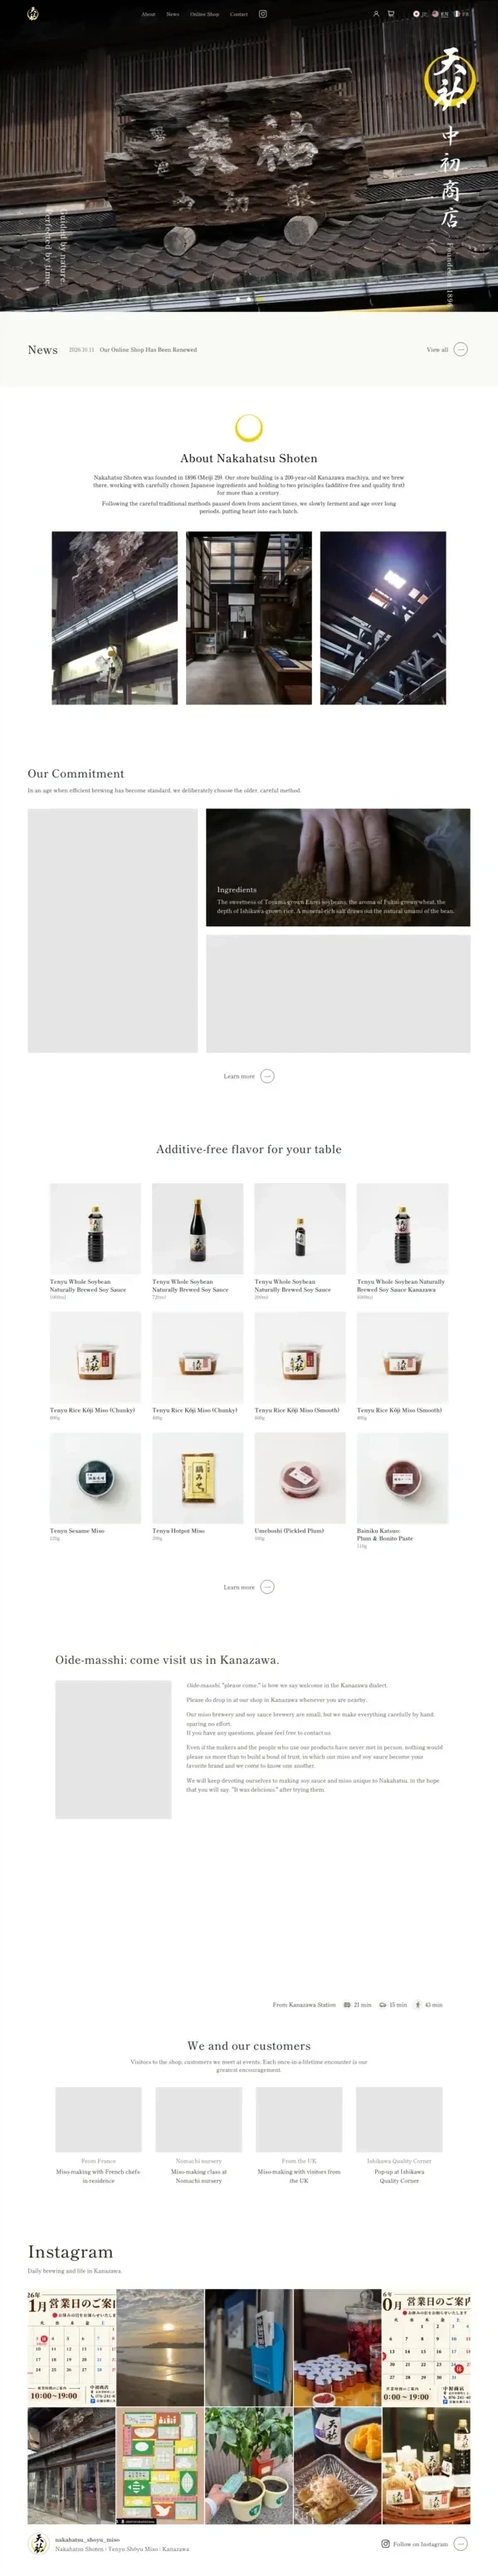
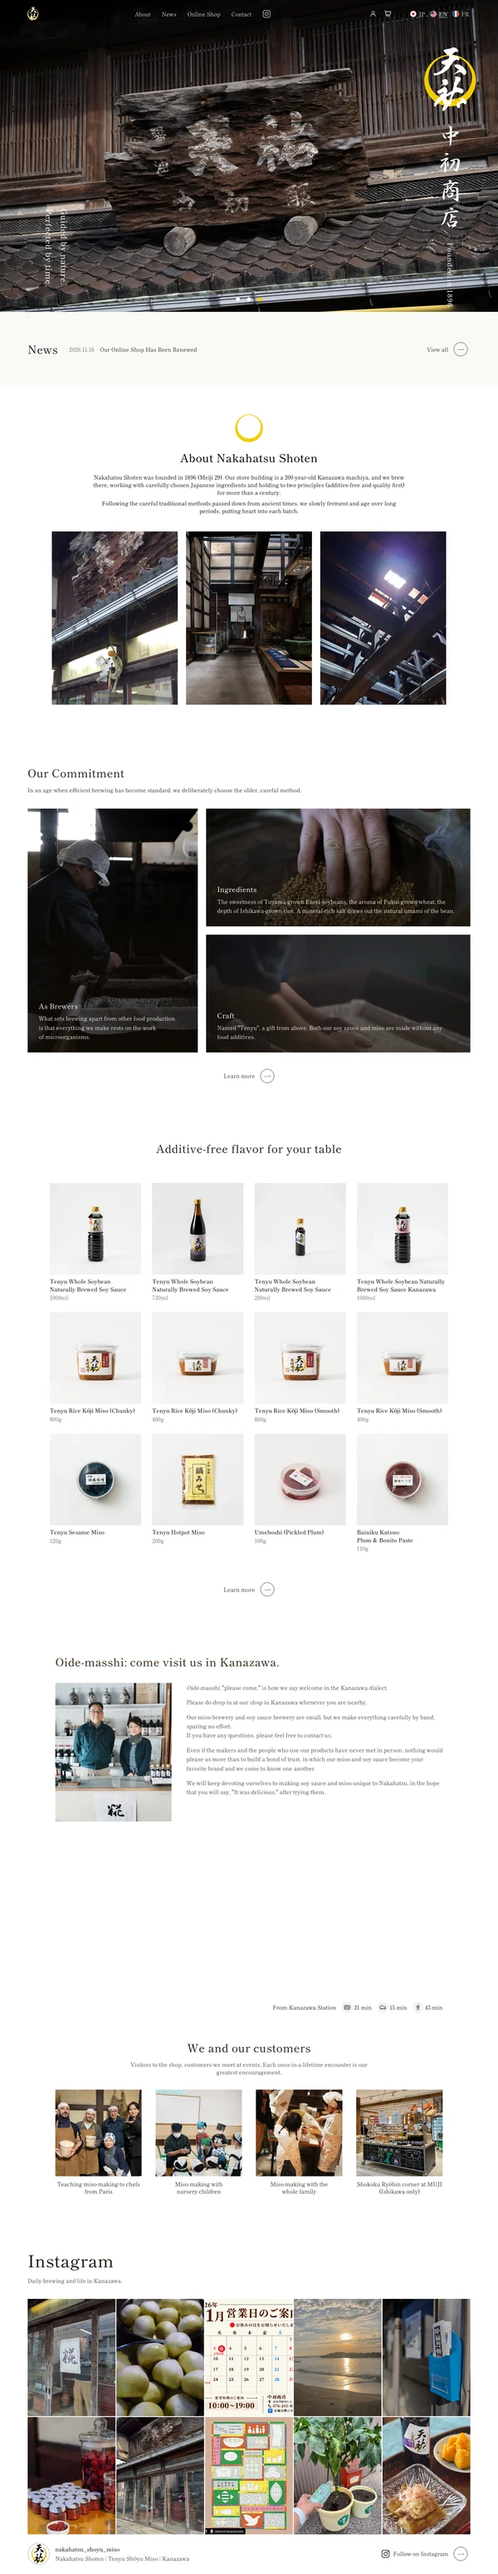
feat(nakahatsu): retake v2 full-page figure from the live store (no gray boxes), update note
Claude-Session: https://claude.ai/code/session_01S4gw1gvEb38CATZttPQqNf

diff --git a/app/[locale]/work/nakahatsu/NakahatsuSy.tsx b/app/[locale]/work/nakahatsu/NakahatsuSy.tsx
@@ -488,7 +488,7 @@ const NakahatsuSy: React.FC<{ launched: boolean }> = () => {
                 </div>
               )}
               {/* v1/v2 の 1500px の図（v1-v2-*.webp）と縦長の図（v1-v2-tall-*.webp）は、Figma の v2 で非表示にしたため載せない（JP・EN とも 2026-11-01。画像ファイルは残してある） */}
-              {/* さらに長い版: Instagram の節まで。人物が写る写真と見本（Sample）の画像は、灰色の四角に置き換えてある。Figma の長尺図の下と同じ */}
+              {/* さらに長い版: Instagram の節まで。v2（右）は公開中のストアから撮り直した（2026-11-23）。v1（左）の Instagram の一部だけ、灰色の四角に置き換えてある */}
               {s.fig === 'before-after' && (
                 <div className="flex justify-center">
                   <div className="w-full overflow-hidden rounded-media bg-[var(--nk-surface)] p-3 md:p-8">
@@ -497,7 +497,7 @@ const NakahatsuSy: React.FC<{ launched: boolean }> = () => {
                       zoom={{ openLabel: t('zoomOpen'), closeLabel: t('zoomClose') }}
                       label={t('v1v2FullAlt')}
                       before={{ src: `/work/nakahatsu/v1-v2-full-${language === 'jp' ? 'jp' : 'en'}-l.webp`, width: 600, height: 2538, label: t('v1Label') }}
-                      after={{ src: `/work/nakahatsu/v1-v2-full-${language === 'jp' ? 'jp' : 'en'}-r.webp`, width: 600, height: language === 'jp' ? 3040 : 3098, label: t('v2Label') }}
+                      after={{ src: `/work/nakahatsu/v1-v2-full-${language === 'jp' ? 'jp' : 'en'}-r.webp`, width: 600, height: language === 'jp' ? 3045 : 3096, label: t('v2Label') }}
                     />
                     <p className="pt-4 text-body-sm text-ink-tertiary">{t('v1v2FullNote')}</p>
                   </div>
